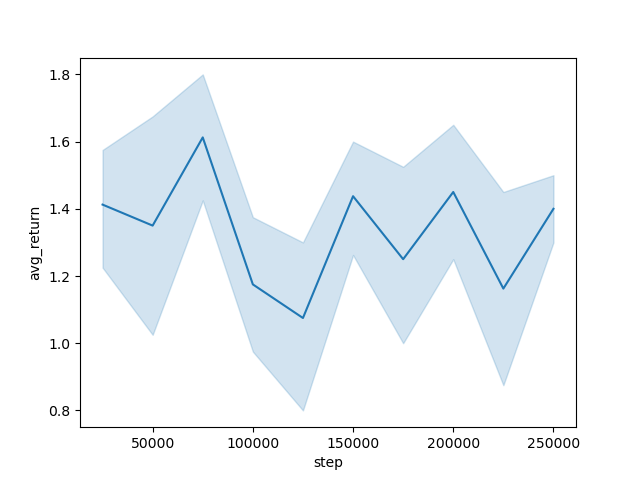
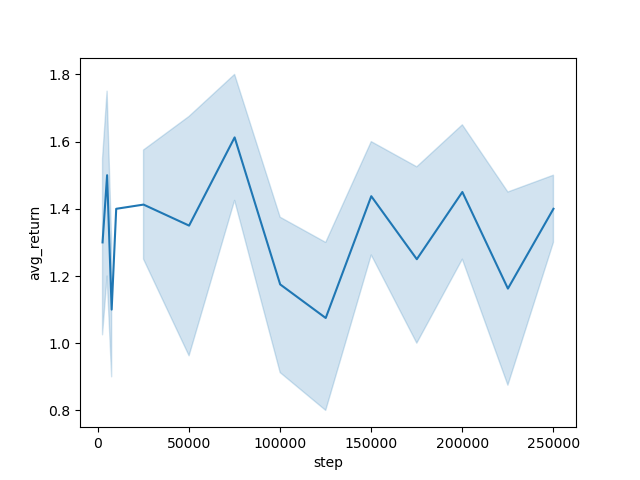
runs but only with history = 1

diff --git a/DQL_agent.py b/DQL_agent.py
@@ -179,6 +179,22 @@ def get_estimator(action_num, opt, input_ch=1, lin_size=32):
     #the input of the network is [1, 128, 64, 64] and the output is [lin_size, action_num]
     return nn.Sequential(
         ByteToFloat(),
+        nn.Conv2d(input_ch, 64, kernel_size=4, stride=3),
+        nn.ReLU(),
+        nn.Conv2d(64, 64, kernel_size=3, stride=2),
+        nn.ReLU(),
+        nn.Conv2d(64, 64, kernel_size=3, stride=1),
+        nn.ReLU(),
+        View(),
+        nn.Linear(4096, lin_size),
+        nn.ReLU(),
+        nn.Linear(lin_size, action_num),
+    ).to(opt.device)
+
+""" def get_estimator(action_num, opt, input_ch=1, lin_size=32):
+    #the input of the network is [1, 128, 64, 64] and the output is [lin_size, action_num]
+    return nn.Sequential(
+        ByteToFloat(),
         nn.Conv2d(input_ch, 32, kernel_size=8, stride=4),
         nn.ReLU(inplace=True),
         nn.Conv2d(32, 64, kernel_size=4, stride=2),
@@ -189,7 +205,7 @@ def get_estimator(action_num, opt, input_ch=1, lin_size=32):
         nn.Linear(1024, lin_size),
         nn.ReLU(inplace=True),
         nn.Linear(lin_size, action_num),
-    ).to(opt.device)
+    ).to(opt.device) """
 
 """ def get_estimator(action_num, opt, input_ch=3, lin_size=32):
     return nn.Sequential(
